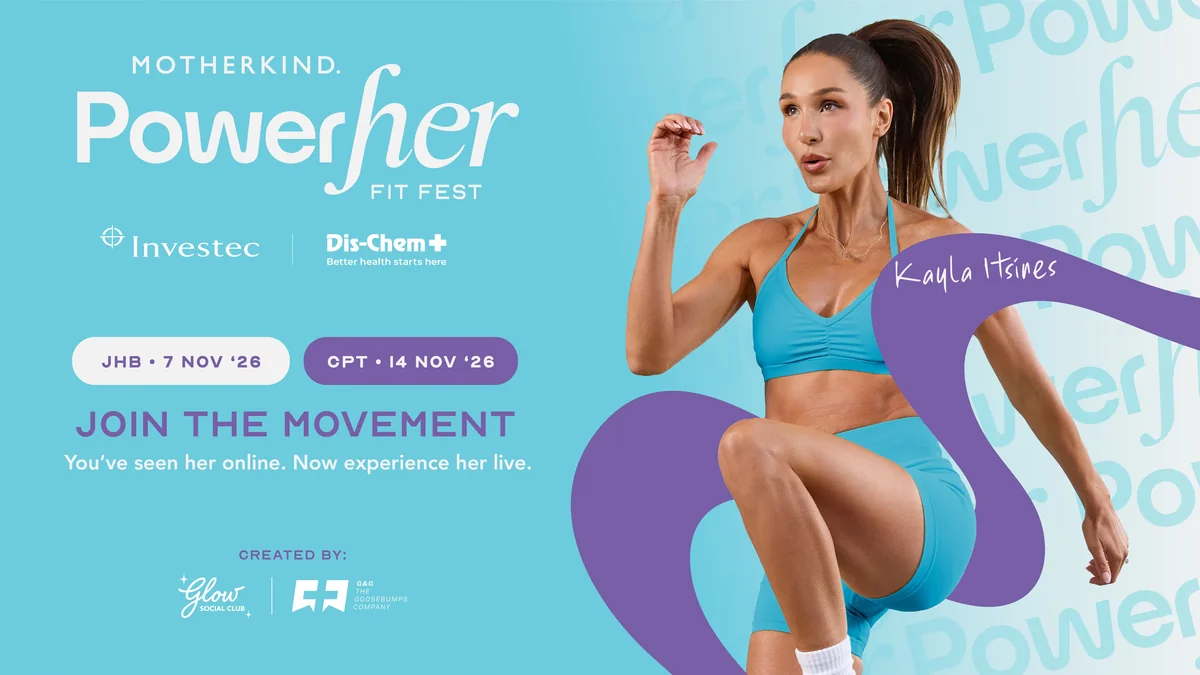
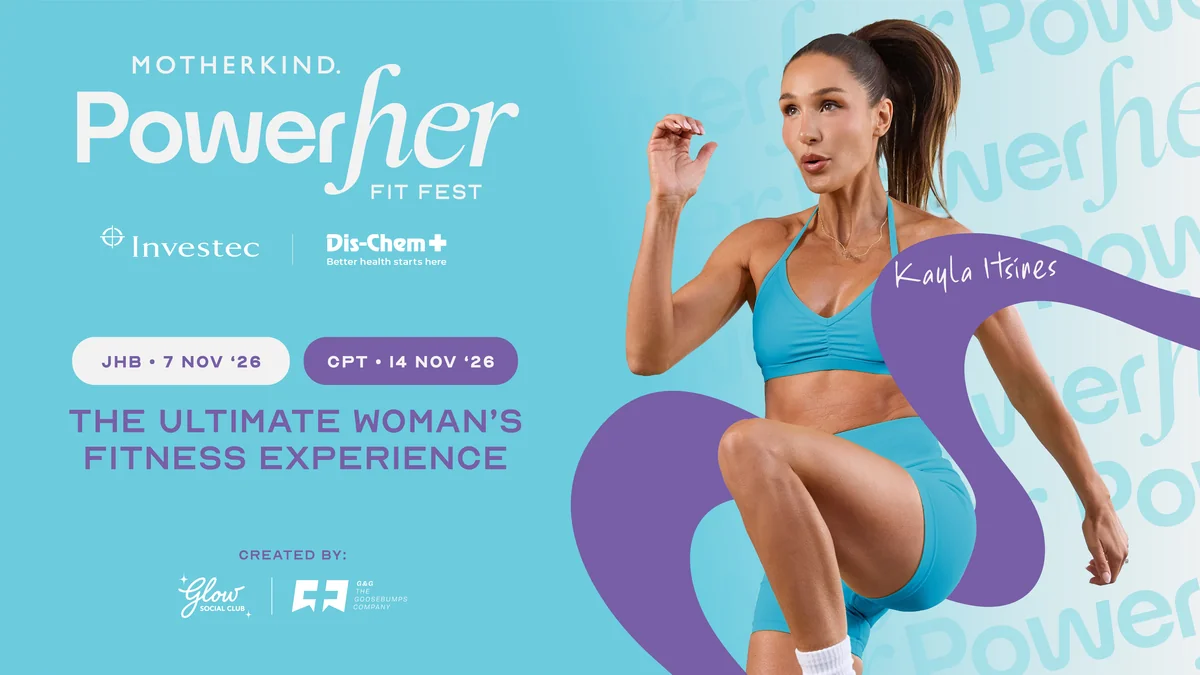
Add files via upload

Changed region(s): [[0.0617, 0.5911, 0.4317, 0.7156]]

diff --git a/tickets.html b/tickets.html
@@ -20,7 +20,7 @@
   <link rel="preconnect" href="https://fonts.googleapis.com">
   <link rel="preconnect" href="https://fonts.gstatic.com" crossorigin>
   <link href="https://fonts.googleapis.com/css2?family=Figtree:wght@400;500;600;700;800&display=swap" rel="stylesheet">
-  <link rel="stylesheet" href="css/styles.css?v=22">
+  <link rel="stylesheet" href="css/styles.css?v=25">
 </head>
 <body data-page="tickets">
   <div data-ph="header"></div>
@@ -62,8 +62,8 @@
             <header class="ticket-head">
               <h3>General</h3>
             </header>
-            <ol class="phases" data-phases></ol>
-            <p class="ticket-fee">Plus a booking fee of <span class="num" data-current-fee>R89</span> per ticket on Howler. When a phase sells out, the next phase opens at the higher price.</p>
+            <p class="ticket-price ticket-from"><small>From</small> <span data-current-price>R890</span></p>
+            <p class="ticket-fee">Plus a booking fee of <span class="num" data-current-fee>R89</span> per ticket on Howler.</p>
             <p class="ticks-head">What’s included</p>
             <ul class="ticks">
               <li>Live bootcamp with Kayla Itsines</li>
@@ -104,12 +104,12 @@
         <div>
           <img class="investec-logo" src="assets/img/partner-investec-white.webp" width="700" height="139" alt="Investec" loading="lazy">
           <h2 class="investec-line">Health is the new&nbsp;Wealth.</h2>
-          <p class="investec-sub">Motherkind PowerHER Fit Fest. The health of your wealth, powered by Investec.</p>
+          <p class="investec-sub">Powered by Investec.</p>
         </div>
         <div class="perk">
           <p class="eyebrow">Power<b>PERK</b> for Investec clients</p>
           <p class="perk-big">Save 25%</p>
-          <p>Investec Private Banking clients unlock PowerTICKETS with a unique access code. One price, whichever General phase is on sale.</p>
+          <p>Investec Private Banking clients unlock PowerTICKETS with a unique access code.</p>
           <dl class="perk-prices">
             <div><dt>General</dt><dd data-bind="investec.general">R667.50</dd></div>
             <div><dt>VVIP</dt><dd data-bind="investec.vvip">R2,842.50</dd></div>
@@ -120,8 +120,34 @@
             <li>Enter your code to unlock the Investec General and VVIP tickets.</li>
           </ol>
           <div class="btn-row">
-            <a class="btn btn-light" data-ticket="jhb">JHB on Howler</a>
-            <a class="btn btn-outline-light" data-ticket="cpt">CPT on Howler</a>
+            <a class="btn btn-light" data-ticket="jhb">Johannesburg tickets</a>
+            <a class="btn btn-outline-light" data-ticket="cpt">Cape Town tickets</a>
+          </div>
+        </div>
+      </div>
+    </section>
+
+    <!-- ============ DIS-CHEM POWERPERK ============ -->
+    <section class="investec dischem" id="dischem">
+      <div class="wrap investec-grid reveal">
+        <div>
+          <img class="investec-logo dischem-logo" src="assets/img/partner-dischem-white.webp" width="700" height="180" alt="Dis-Chem" loading="lazy">
+          <h2 class="investec-line">Better health starts&nbsp;here.</h2>
+          <p class="investec-sub">A PowerPERK for Dis-Chem Better Rewards members.</p>
+        </div>
+        <div class="perk">
+          <p class="eyebrow">Power<b>PERK</b> for Dis-Chem Better Rewards members</p>
+          <p class="perk-big">Save 10%</p>
+          <p>Enjoy 10% off General PowerTICKETS.</p>
+          <ol class="steps">
+            <li>Head to the Howler ticket page for your city.</li>
+            <li>Choose your General PowerTICKET.</li>
+            <li>Continue through the purchase journey.</li>
+            <li>On the payment page, enter your Dis-Chem discount code to apply your 10% discount.</li>
+          </ol>
+          <div class="btn-row">
+            <a class="btn btn-light" data-ticket="jhb">Johannesburg tickets</a>
+            <a class="btn btn-outline-light" data-ticket="cpt">Cape Town tickets</a>
           </div>
         </div>
       </div>
@@ -189,7 +215,7 @@
 
   <div data-ph="footer"></div>
 
-  <script src="js/config.js?v=22"></script>
-  <script src="js/layout.js?v=22"></script>
+  <script src="js/config.js?v=25"></script>
+  <script src="js/layout.js?v=25"></script>
 </body>
 </html>

diff --git a/index.html b/index.html
@@ -21,7 +21,7 @@
   <link rel="preconnect" href="https://fonts.googleapis.com">
   <link rel="preconnect" href="https://fonts.gstatic.com" crossorigin>
   <link href="https://fonts.googleapis.com/css2?family=Figtree:wght@400;500;600;700;800&display=swap" rel="stylesheet">
-  <link rel="stylesheet" href="css/styles.css?v=22">
+  <link rel="stylesheet" href="css/styles.css?v=25">
   <script type="application/ld+json">
   [{"@context":"https://schema.org","@type":"Event","name":"PowerHER Fit Fest Johannesburg","startDate":"2026-11-07T11:00:00+02:00","endDate":"2026-11-07T21:00:00+02:00","eventAttendanceMode":"https://schema.org/OfflineEventAttendanceMode","eventStatus":"https://schema.org/EventScheduled","location":{"@type":"Place","name":"The Chosen Convention & Expo Centre","address":"23 Summit Dr, Rispark, Johannesburg South, 2053"},"image":"https://powerherfitfest.com/assets/img/og-image.jpg","performer":{"@type":"Person","name":"Kayla Itsines"},"offers":{"@type":"Offer","url":"https://powerher.howler.co.za/events/powerher-fit-fest-jhb-7-nov-2026-5a9d","priceCurrency":"ZAR","price":"890"}},
    {"@context":"https://schema.org","@type":"Event","name":"PowerHER Fit Fest Cape Town","startDate":"2026-11-14T11:00:00+02:00","endDate":"2026-11-14T21:00:00+02:00","eventAttendanceMode":"https://schema.org/OfflineEventAttendanceMode","eventStatus":"https://schema.org/EventScheduled","location":{"@type":"Place","name":"Allée Bleue Wine Estate","address":"Cnr R45 & R310, Groot Drakenstein, Franschhoek, 7680"},"image":"https://powerherfitfest.com/assets/img/og-image.jpg","performer":{"@type":"Person","name":"Kayla Itsines"},"offers":{"@type":"Offer","url":"https://powerher.howler.co.za/events/powerher-fit-fest-cpt-14-nov-2026-fde2","priceCurrency":"ZAR","price":"890"}}]
@@ -78,8 +78,8 @@
           </article>
           <article class="card card-aqua reveal">
             <span class="card-num">02</span>
-            <h3>Workouts with SA’s top trainers</h3>
-            <p>Move all day with some of South Africa’s best. Try something new, find your favourite, then go again.</p>
+            <h3>Breathe, move &amp; play</h3>
+            <p>Ease in with breathwork, get loose with a dance warm-up and take on the plank challenge. Little moments to move your way, all day.</p>
           </article>
           <article class="card card-mist reveal">
             <span class="card-num">03</span>
@@ -152,7 +152,7 @@
             <header class="ticket-head">
               <h3>General</h3>
             </header>
-            <ol class="phases" data-phases></ol>
+            <p class="ticket-price ticket-from"><small>From</small> <span data-current-price>R890</span></p>
             <ul class="ticks">
               <li>Live bootcamp with Kayla Itsines</li>
               <li>Workouts, talks and sessions all day</li>
@@ -240,7 +240,7 @@
 
   <div data-ph="footer"></div>
 
-  <script src="js/config.js?v=22"></script>
-  <script src="js/layout.js?v=22"></script>
+  <script src="js/config.js?v=25"></script>
+  <script src="js/layout.js?v=25"></script>
 </body>
 </html>

diff --git a/css/styles.css b/css/styles.css
@@ -600,3 +600,45 @@ body:has(.page-hero) .site-header:not(.is-scrolled) .top-link.is-current { backg
 .sched-city-tag { display: inline-block; margin-left: .3em; font-size: .55em; vertical-align: middle; background: var(--aqua); color: var(--purple-ink); padding: .2em .6em; border-radius: 999px; }
 .pd-city .sched-note { margin: -8px 0 18px; text-transform: none; letter-spacing: .02em; font-size: .9rem; }
 @media (min-width: 980px) { .pd-city .sched-panel, .pd-city .sched-list { --sched-time: 108px; } .pd-city .sched-time { font-size: 1.05rem; } .pd-city .sched-event { font-size: .92rem; padding: .85em 1.2em; } }
+
+/* ---------- 14 Oct final changes ---------- */
+.brand img { height: 46px !important; width: auto; }
+.brand { gap: 0; }
+@media (max-width: 520px) { .brand img { height: 40px !important; } }
+/* no JHB / CPT letters behind the city cards */
+.city::before { content: none !important; }
+.ticket-from { margin-bottom: .8rem; }
+.ticket-from small { font-size: .9rem; font-weight: 600; opacity: .7; margin-right: .2em; }
+.ticket:not(.ticket-vvip) .ticket-from { color: var(--purple-deep); }
+/* Dis-Chem PowerPERK band (same layout as Investec) */
+.dischem { background: linear-gradient(135deg, #3fb4cf 0%, #2b8fbf 55%, #4a5fae 100%); }
+.dischem::before { background: radial-gradient(circle, rgba(255,255,255,.25) 0%, rgba(255,255,255,0) 65%); }
+.dischem .perk { background: rgba(255,255,255,.14); border-color: rgba(255,255,255,.35); }
+.dischem .perk .eyebrow { color: #fff; }
+.dischem .investec-sub { color: rgba(255,255,255,.9); }
+.dischem .steps li::before { background: #fff; color: #2b8fbf; }
+.dischem-logo { width: 170px; }
+.bento .card { padding-top: 58px; }
+
+/* PowerPERK bands: compact, Investec in brand purple (not black) */
+.investec { background: linear-gradient(135deg, var(--purple) 0%, var(--purple-deep) 100%); padding: clamp(40px, 5vw, 64px) 0; }
+.investec::before { width: 520px; height: 520px; right: -180px; top: -200px; }
+.dischem { background: linear-gradient(135deg, #3fb4cf 0%, #2b8fbf 55%, #4a5fae 100%); }
+.investec-grid { gap: 28px; }
+@media (min-width: 900px) { .investec-grid { grid-template-columns: 1fr 1.1fr; gap: 48px; } }
+.investec-logo { width: 140px; margin-bottom: 16px; }
+.dischem-logo { width: 140px; }
+.investec-line { font-size: clamp(1.7rem, 3.2vw, 2.5rem); margin-bottom: .35em; }
+.investec-sub { font-size: 1rem; }
+.perk { padding: clamp(20px, 2.5vw, 28px); border-radius: 22px; }
+.perk .eyebrow { margin-bottom: .6rem; }
+.perk-big { font-size: clamp(2rem, 3.4vw, 2.6rem); }
+.perk-prices { margin: .9rem 0 1rem; }
+.perk-prices div { padding: 8px 14px; }
+.perk-prices dd { font-size: 1.2rem; }
+.perk .steps { margin: .9rem 0 1.1rem; gap: 8px; font-size: .95rem; }
+.perk .steps li { padding-left: 38px; }
+.perk .steps li::before { width: 26px; height: 26px; font-size: .8rem; }
+.perk .btn-row .btn { padding: .85em 1.4em; font-size: .75rem; }
+.investec .steps li::before { background: var(--aqua); }
+.dischem .steps li::before { background: #fff; color: #2b8fbf; }

diff --git a/experience.html b/experience.html
@@ -4,7 +4,7 @@
   <meta charset="utf-8">
   <meta name="viewport" content="width=device-width, initial-scale=1">
   <title>PowerDAY | Motherkind PowerHER Fit Fest 2026</title>
-  <meta name="description" content="Motherkind is proud to present PowerHER Fit Fest, in partnership with Investec and Dis-Chem. A live bootcamp with Kayla Itsines, workouts with SA’s top trainers, the Pulse Talks, the Food and Brand Village and the PowerHER After Party.">
+  <meta name="description" content="Motherkind is proud to present PowerHER Fit Fest, in partnership with Investec and Dis-Chem. A live bootcamp with Kayla Itsines, breathwork and dance, the Pulse Talks, the Food and Brand Village and the PowerHER After Party.">
   <link rel="canonical" href="https://powerherfitfest.com/experience.html">
   <meta property="og:type" content="website">
   <meta property="og:site_name" content="PowerHER Fit Fest">
@@ -20,7 +20,7 @@
   <link rel="preconnect" href="https://fonts.googleapis.com">
   <link rel="preconnect" href="https://fonts.gstatic.com" crossorigin>
   <link href="https://fonts.googleapis.com/css2?family=Figtree:wght@400;500;600;700;800&display=swap" rel="stylesheet">
-  <link rel="stylesheet" href="css/styles.css?v=22">
+  <link rel="stylesheet" href="css/styles.css?v=25">
 </head>
 <body data-page="experience">
   <div data-ph="header"></div>
@@ -62,7 +62,6 @@
 
         <div class="pd-city" data-city-only="jhb">
           <article class="pd-card pd-jhb">
-            <span class="pd-letters" aria-hidden="true">JHB</span>
             <img class="pd-kayla" src="assets/img/kayla-cutout-2.webp" width="900" height="2085" alt="" loading="lazy">
             <div class="pd-card-body">
               <span class="sched-count" data-countdown="jhb"></span>
@@ -99,7 +98,6 @@
 
         <div class="pd-city" data-city-only="cpt" hidden>
           <article class="pd-card pd-cpt">
-            <span class="pd-letters" aria-hidden="true">CPT</span>
             <img class="pd-kayla" src="assets/img/kayla-cutout.webp" width="1100" height="2314" alt="" loading="lazy">
             <div class="pd-card-body">
               <span class="sched-count" data-countdown="cpt"></span>
@@ -153,7 +151,7 @@
 
   <div data-ph="footer"></div>
 
-  <script src="js/config.js?v=22"></script>
-  <script src="js/layout.js?v=22"></script>
+  <script src="js/config.js?v=25"></script>
+  <script src="js/layout.js?v=25"></script>
 </body>
 </html>

diff --git a/faq.html b/faq.html
@@ -20,7 +20,7 @@
   <link rel="preconnect" href="https://fonts.googleapis.com">
   <link rel="preconnect" href="https://fonts.gstatic.com" crossorigin>
   <link href="https://fonts.googleapis.com/css2?family=Figtree:wght@400;500;600;700;800&display=swap" rel="stylesheet">
-  <link rel="stylesheet" href="css/styles.css?v=22">
+  <link rel="stylesheet" href="css/styles.css?v=25">
 </head>
 <body data-page="faq">
   <div data-ph="header"></div>
@@ -100,8 +100,7 @@
             <details class="faq">
               <summary>How much are tickets?</summary>
               <div class="faq-body">
-                <p>General tickets are released in phases. When a phase sells out, the next one opens at a higher price:</p>
-                <ol class="phases" data-phases></ol>
+                <p>General PowerTICKETS are from <span class="num" data-current-price>R890</span> per person.</p>
                 <p>VVIP is <span class="num" data-bind="vvip">R3,790</span> per person. Howler adds a booking fee to each ticket, shown at checkout.</p>
               </div>
             </details>
@@ -123,7 +122,7 @@
             <details class="faq">
               <summary>What is the Investec PowerPERK?</summary>
               <div class="faq-body">
-                <p>Investec Private Banking clients save 25% on PowerTICKETS with a unique access code: General is <span class="num" data-bind="investec.general">R667.50</span> and VVIP is <span class="num" data-bind="investec.vvip">R2,842.50</span>. The Investec price stays the same whichever General phase is on sale.</p>
+                <p>Investec Private Banking clients save 25% on PowerTICKETS with a unique access code: General is <span class="num" data-bind="investec.general">R667.50</span> and VVIP is <span class="num" data-bind="investec.vvip">R2,842.50</span>.</p>
               </div>
             </details>
             <details class="faq">
@@ -181,7 +180,7 @@
 
   <div data-ph="footer"></div>
 
-  <script src="js/config.js?v=22"></script>
-  <script src="js/layout.js?v=22"></script>
+  <script src="js/config.js?v=25"></script>
+  <script src="js/layout.js?v=25"></script>
 </body>
 </html>

diff --git a/js/layout.js b/js/layout.js
@@ -33,8 +33,7 @@
     '<header class="site-header">' +
       '<div class="wrap header-inner">' +
         '<a class="brand" href="index.html" aria-label="Motherkind PowerHER Fit Fest home">' +
-          '<img class="brand-mk" src="assets/img/motherkind-dot-purple.webp" alt="Motherkind" width="660" height="59">' +
-          '<img src="assets/img/logo-gradient.webp" alt="PowerHER Fit Fest" width="1000" height="306">' +
+          '<img src="assets/img/logo-header.webp" alt="Motherkind PowerHER Fit Fest" width="1000" height="326">' +
         "</a>" +
         '<nav class="top-nav" aria-label="Main">' +
           NAV.filter(function (n) { return TOP.indexOf(n.id) > -1; }).map(function (n) { return navLink(n, "top-link"); }).join("") +

diff --git a/contact.html b/contact.html
@@ -20,7 +20,7 @@
   <link rel="preconnect" href="https://fonts.googleapis.com">
   <link rel="preconnect" href="https://fonts.gstatic.com" crossorigin>
   <link href="https://fonts.googleapis.com/css2?family=Figtree:wght@400;500;600;700;800&display=swap" rel="stylesheet">
-  <link rel="stylesheet" href="css/styles.css?v=22">
+  <link rel="stylesheet" href="css/styles.css?v=25">
 </head>
 <body data-page="contact">
   <div data-ph="header"></div>
@@ -96,7 +96,7 @@
 
   <div data-ph="footer"></div>
 
-  <script src="js/config.js?v=22"></script>
-  <script src="js/layout.js?v=22"></script>
+  <script src="js/config.js?v=25"></script>
+  <script src="js/layout.js?v=25"></script>
 </body>
 </html>
